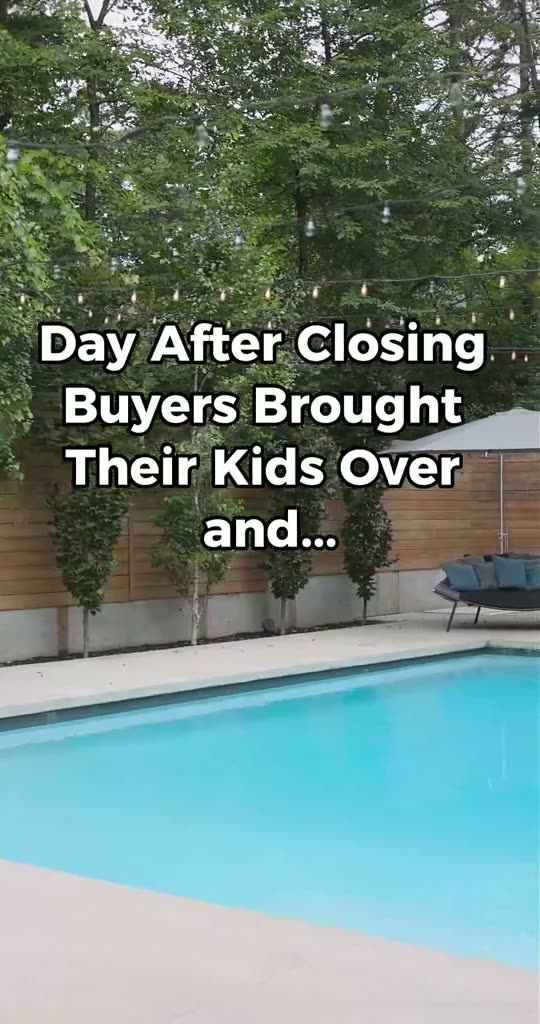
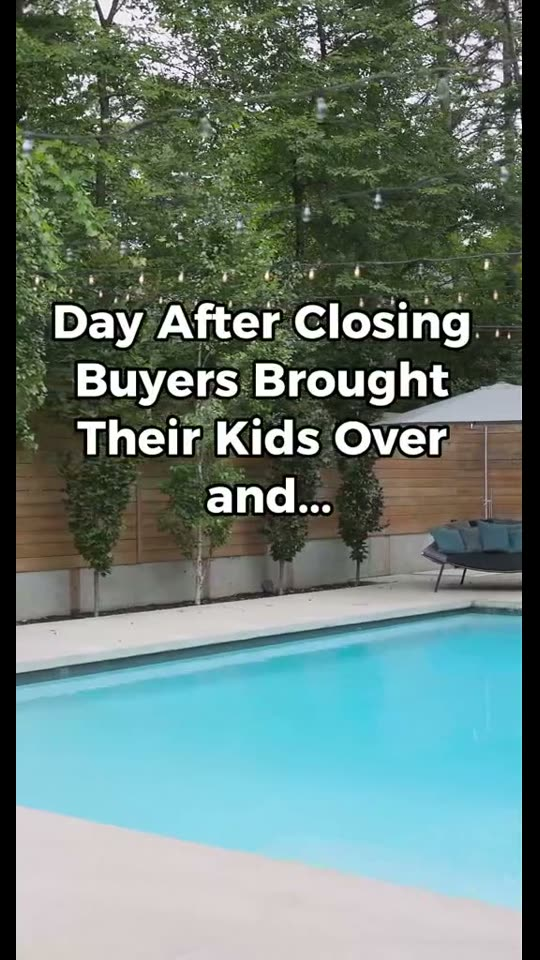
feat(portfolio): Beril & Sedat review fixes — copy accuracy, embed nav, a11y
Final review found the explainers lede claiming every piece is built
graphics when three of four are caption overlays, nine reel notes written
but never rendered (one with a wrong figure), the embedded site always
rendering in its collapsed mobile header because it hides nav below
1400px, a 4.65MB lossless PNG at half the embed's weight, and small-text
contrast down to 2.46:1 on limestone.

Changed region(s): [[0.0, 0.0, 1.0, 1.0], [0.0593, 0.8438, 0.1778, 0.875]]

diff --git a/src/components/portfolio/featured/BerilSedatHomesPage.tsx b/src/components/portfolio/featured/BerilSedatHomesPage.tsx
@@ -38,7 +38,7 @@ const REELS = [
     note: "Ten seconds. The short end of the range, and the one that travels furthest.",
     alt: "Sedat on the phone, caption about a buyer receiving a gifted down payment" },
   { id: "R.08", src: "/portfolio/beril-sedat-homes/reels/08-offer-counter.mp4", cap: "Offer and counter · EN",
-    note: "Beril in the car, playing both sides of a negotiation that is $50,000 apart.",
+    note: "Beril in the car, playing both sides. The gap closes from $75,000 to $15,000 and the deal still dies.",
     alt: "Beril in a car acting out an offer and counter-offer exchange" },
   { id: "R.09", src: "/portfolio/beril-sedat-homes/reels/09-day-after-closing.mp4", cap: "The day after closing",
     note: "No pitch, no numbers, no one on camera. The only piece in the series like it.",
@@ -104,6 +104,28 @@ const SCOPE = [
     body: "Paid support behind the listings and the seminar programme, reported on a fixed cadence against the plan rather than on whatever the dashboard highlighted that week." },
 ] as const;
 
+/* The embed is a real static export of the client's site, served same-origin so the
+   guards below can reach its document. Navigation and form submission are made inert;
+   the site's own interactive UI (tabs, menu toggles) is deliberately left working. */
+function applySiteGuards(e: React.SyntheticEvent<HTMLIFrameElement>) {
+  const doc = e.currentTarget.contentDocument;
+  if (!doc) return;
+  const block = (ev: Event) => {
+    const el = ev.target as HTMLElement | null;
+    if (el?.closest("a[href], button[type='submit'], [role='link']")) {
+      ev.preventDefault();
+      ev.stopPropagation();
+    }
+  };
+  doc.addEventListener("click", block, true);
+  doc.addEventListener("auxclick", block, true);
+  doc.addEventListener("submit", (ev) => ev.preventDefault(), true);
+  for (const a of Array.from(doc.querySelectorAll("a[href]"))) {
+    a.removeAttribute("target");
+    a.setAttribute("aria-disabled", "true");
+  }
+}
+
 export function BerilSedatHomesPage({ client }: Props) {
   const frame = getFrameNumber(client); // "020"
 
@@ -118,25 +140,6 @@ export function BerilSedatHomesPage({ client }: Props) {
   }, []);
 
   const [siteTab, setSiteTab] = useState(0);
-
-  function applySiteGuards(e: React.SyntheticEvent<HTMLIFrameElement>) {
-    const doc = e.currentTarget.contentDocument;
-    if (!doc) return;
-    const block = (ev: Event) => {
-      const el = ev.target as HTMLElement | null;
-      if (el?.closest("a[href], button[type='submit'], [role='link']")) {
-        ev.preventDefault();
-        ev.stopPropagation();
-      }
-    };
-    doc.addEventListener("click", block, true);
-    doc.addEventListener("auxclick", block, true);
-    doc.addEventListener("submit", (ev) => ev.preventDefault(), true);
-    for (const a of Array.from(doc.querySelectorAll("a[href]"))) {
-      a.removeAttribute("target");
-      a.setAttribute("aria-disabled", "true");
-    }
-  }
 
   useEffect(() => {
     if (!lightbox) return;
@@ -205,7 +208,7 @@ export function BerilSedatHomesPage({ client }: Props) {
           {REELS.map((r, i) => (
             <button type="button" className="bs-cell bs-cell--onDark" key={r.id} onClick={() => setLightbox({ set: "reels", i })}>
               <span className="bs-play">▶</span>
-              <img className="bs-cell-img" src={`${r.src.replace(/\.mp4$/, "")}-poster.jpg`} alt={r.alt} loading="lazy" />
+              <img className="bs-cell-img" src={`${r.src.replace(/\.mp4$/, "")}-poster.jpg`} alt={r.alt} width={540} height={960} loading="lazy" />
               <span className="bs-cell-cap">{r.cap}</span>
             </button>
           ))}
@@ -218,7 +221,7 @@ export function BerilSedatHomesPage({ client }: Props) {
         <div className="bs-grid bs-grid--45">
           {FEED.map((f, i) => (
             <button type="button" className="bs-cell bs-cell--onLight" key={f.id} onClick={() => setLightbox({ set: "feed", i })}>
-              <img className="bs-cell-img" src={f.src} alt={f.alt} loading="lazy" />
+              <img className="bs-cell-img" src={f.src} alt={f.alt} width={1080} height={1350} loading="lazy" />
               <span className="bs-cell-cap">{f.cap}</span>
             </button>
           ))}
@@ -228,12 +231,12 @@ export function BerilSedatHomesPage({ client }: Props) {
       <section className="bs-motion">
         <h2 className="bs-sec-head"><i></i><span>THE EXPLAINERS</span><i></i></h2>
         <p className="bs-sub bs-sub--dark">Vertical motion · 9:16</p>
-        <p className="bs-lede">This is the layer that sits under the talking. Each explainer is cut against a built graphics pass — the number lands, the label arrives, the table fills a row at a time — so the voice never has to describe what the screen could just show. Rendered from one template, which means a new episode is a data change rather than a rebuild.</p>
+        <p className="bs-lede">This is the layer that sits under the talking. The strongest of them are cut against a built graphics pass — the number lands, the label arrives, the table fills a row at a time — so the voice never has to describe what the screen could just show. The rest are lighter: a caption, a list, one idea held on screen long enough to land.</p>
         <div className="bs-grid bs-grid--916">
           {EXPLAINERS.map((x, i) => (
             <button type="button" className="bs-cell bs-cell--onLight" key={x.id} onClick={() => setLightbox({ set: "explainers", i })}>
               <span className="bs-play">▶</span>
-              <img className="bs-cell-img" src={`${x.src.replace(/\.mp4$/, "")}-poster.jpg`} alt={x.alt} loading="lazy" />
+              <img className="bs-cell-img" src={`${x.src.replace(/\.mp4$/, "")}-poster.jpg`} alt={x.alt} width={540} height={960} loading="lazy" />
               <span className="bs-cell-cap">{x.cap}</span>
             </button>
           ))}
@@ -304,7 +307,7 @@ export function BerilSedatHomesPage({ client }: Props) {
       </section>
 
       <footer className="bs-signoff">
-        <div className="bs-sign-mark"><img className="bs-sign-img" src="/portfolio/beril-sedat-homes/brand/logo-navy.png" alt="Beril &amp; Sedat Homes monogram" loading="lazy" /></div>
+        <div className="bs-sign-mark"><img className="bs-sign-img" src="/portfolio/beril-sedat-homes/brand/logo-navy.png" alt="Beril &amp; Sedat Homes logo" loading="lazy" /></div>
         <div className="bs-sign-grid">
           <div><p className="bs-sign-label">PREPARED BY</p><p className="bs-sign-name">FrameFlow</p></div>
           <div><p className="bs-sign-label">FRAME</p><p className="bs-sign-name">{frame}</p></div>
@@ -344,6 +347,7 @@ export function BerilSedatHomesPage({ client }: Props) {
             </div>
             <button type="button" className="bs-modal-nav next" onClick={() => stepBox(1)} aria-label="Next">›</button>
             <p className="bs-modal-cap">{item.cap}</p>
+            {"note" in item && item.note ? <p className="bs-modal-note">{item.note}</p> : null}
           </div>
         );
       })()}
@@ -359,7 +363,7 @@ export function BerilSedatHomesPage({ client }: Props) {
           background:var(--cloud);color:var(--navy);border-bottom:1px solid var(--rule);font-size:10px;font-weight:500;letter-spacing:.22em;text-transform:uppercase}
         .bs-back{color:var(--navy);text-decoration:none;opacity:.75}
         .bs-back:hover{opacity:1;color:var(--bronze)}
-        .bs-rail-end{opacity:.5}
+        .bs-rail-end{opacity:.75}
 
         .bs-hero{background:var(--navy);color:var(--cloud);padding:88px 26px 96px}
         .bs-hero-inner{max-width:1000px;margin:0 auto;text-align:center}
@@ -379,7 +383,7 @@ export function BerilSedatHomesPage({ client }: Props) {
         .bs-sec-head.light{color:var(--cloud)}
         .bs-sec-head.light i{background:rgba(240,240,240,.22)}
         .bs-sub{text-align:center;font-size:10px;font-weight:500;letter-spacing:.22em;text-transform:uppercase;color:rgba(240,240,240,.5);margin:0 0 46px}
-        .bs-sub--dark{color:rgba(28,40,65,.45)}
+        .bs-sub--dark{color:rgba(28,40,65,.75)}
 
         .bs-registers{padding:96px 26px}
         .bs-lede{max-width:68ch;margin:30px auto 48px;text-align:center;font-size:15.5px;font-weight:300;line-height:1.9;color:#3d4757}
@@ -405,7 +409,7 @@ export function BerilSedatHomesPage({ client }: Props) {
         .bs-cell:hover .bs-cell-img{opacity:.86;transform:translateY(-3px)}
         .bs-cell-cap{display:block;padding-top:11px;font-size:9.5px;font-weight:500;letter-spacing:.16em;text-transform:uppercase}
         .bs-cell--onDark .bs-cell-cap{color:rgba(240,240,240,.5)}
-        .bs-cell--onLight .bs-cell-cap{color:rgba(28,40,65,.5)}
+        .bs-cell--onLight .bs-cell-cap{color:rgba(28,40,65,.75)}
         .bs-play{position:absolute;z-index:2;top:12px;left:12px;width:30px;height:30px;border-radius:50%;display:flex;align-items:center;justify-content:center;
           background:rgba(28,40,65,.55);color:#fff;font-size:10px;line-height:1;padding-left:2px;backdrop-filter:blur(3px);transition:background 200ms ease}
         .bs-cell:hover .bs-play{background:var(--bronze)}
@@ -424,12 +428,12 @@ export function BerilSedatHomesPage({ client }: Props) {
         .bs-shot-live{color:var(--limestone);font-weight:600}
         .bs-site-tabs{display:flex;flex-wrap:wrap;border:1px solid var(--rule);border-top:0;border-bottom:0}
         .bs-site-tabs button{flex:1;min-width:104px;cursor:pointer;background:#d6c8b2;border:0;border-right:1px solid rgba(28,40,65,.1);padding:12px 8px;
-          font-family:"Montserrat",sans-serif;font-size:9.5px;font-weight:600;letter-spacing:.16em;text-transform:uppercase;color:#6f6252;transition:background 150ms ease,color 150ms ease}
+          font-family:"Montserrat",sans-serif;font-size:9.5px;font-weight:600;letter-spacing:.16em;text-transform:uppercase;color:#584d40;transition:background 150ms ease,color 150ms ease}
         .bs-site-tabs button:last-child{border-right:0}
         .bs-site-tabs button:hover{background:#cbbca4;color:var(--navy)}
         .bs-site-tabs button.on{background:var(--cloud);color:var(--bronze)}
         .bs-site-window{position:relative;height:640px;overflow:hidden;border:1px solid var(--rule);background:#fff}
-        .bs-site-frame{width:100%;height:100%;border:0;display:block;background:#fff}
+        .bs-site-frame{width:125.3%;height:125.3%;transform:scale(.798);transform-origin:0 0;border:0;display:block;background:#fff}
         .bs-site-foot{display:flex;align-items:center;justify-content:space-between;gap:16px;border:1px solid var(--rule);border-top:0;padding:13px 15px}
         .bs-site-nav{display:flex;align-items:center;gap:12px}
         .bs-site-nav button{width:34px;height:34px;cursor:pointer;line-height:1;background:transparent;border:1px solid var(--rule);color:var(--navy);font-size:19px;transition:all 150ms ease}
@@ -482,6 +486,7 @@ export function BerilSedatHomesPage({ client }: Props) {
         .bs-modal-nav:hover{transform:translateY(-50%) scale(1.06);background:var(--bronze);color:var(--cloud);border-color:var(--bronze)}
         .bs-modal-nav.prev{left:24px}.bs-modal-nav.next{right:24px}
         .bs-modal-cap{position:absolute;left:40px;right:40px;bottom:24px;margin:0;text-align:center;font-size:9.5px;font-weight:500;letter-spacing:.2em;text-transform:uppercase;color:rgba(255,255,255,.62);z-index:1}
+        .bs-modal-note{position:absolute;left:40px;right:40px;bottom:44px;margin:0;text-align:center;font-size:12.5px;font-weight:300;line-height:1.6;letter-spacing:0;text-transform:none;color:rgba(255,255,255,.8);z-index:1}
 
         @media(max-width:1080px){.bs-grid--916{grid-template-columns:repeat(4,1fr)}}
         @media(max-width:940px){
@@ -509,6 +514,7 @@ export function BerilSedatHomesPage({ client }: Props) {
           .bs-modal-nav{width:34px;height:34px;font-size:22px}
           .bs-modal-nav.prev{left:5px}.bs-modal-nav.next{right:5px}
           .bs-modal-cap{left:12px;right:12px;bottom:8px}
+          .bs-modal-note{left:12px;right:12px;bottom:30px;font-size:11.5px}
         }
 
         @media (prefers-reduced-motion: reduce){

diff --git a/public/portfolio/beril-sedat-homes/site/index.html b/public/portfolio/beril-sedat-homes/site/index.html
@@ -1,0 +1,6 @@
+<!doctype html>
+<meta charset="utf-8">
+<title>Beril &amp; Sedat Homes</title>
+<meta http-equiv="refresh" content="0; url=./en/">
+<link rel="canonical" href="https://www.berilsedathomes.ca/">
+<p>Redirecting to <a href="./en/">the English site</a>.</p>
